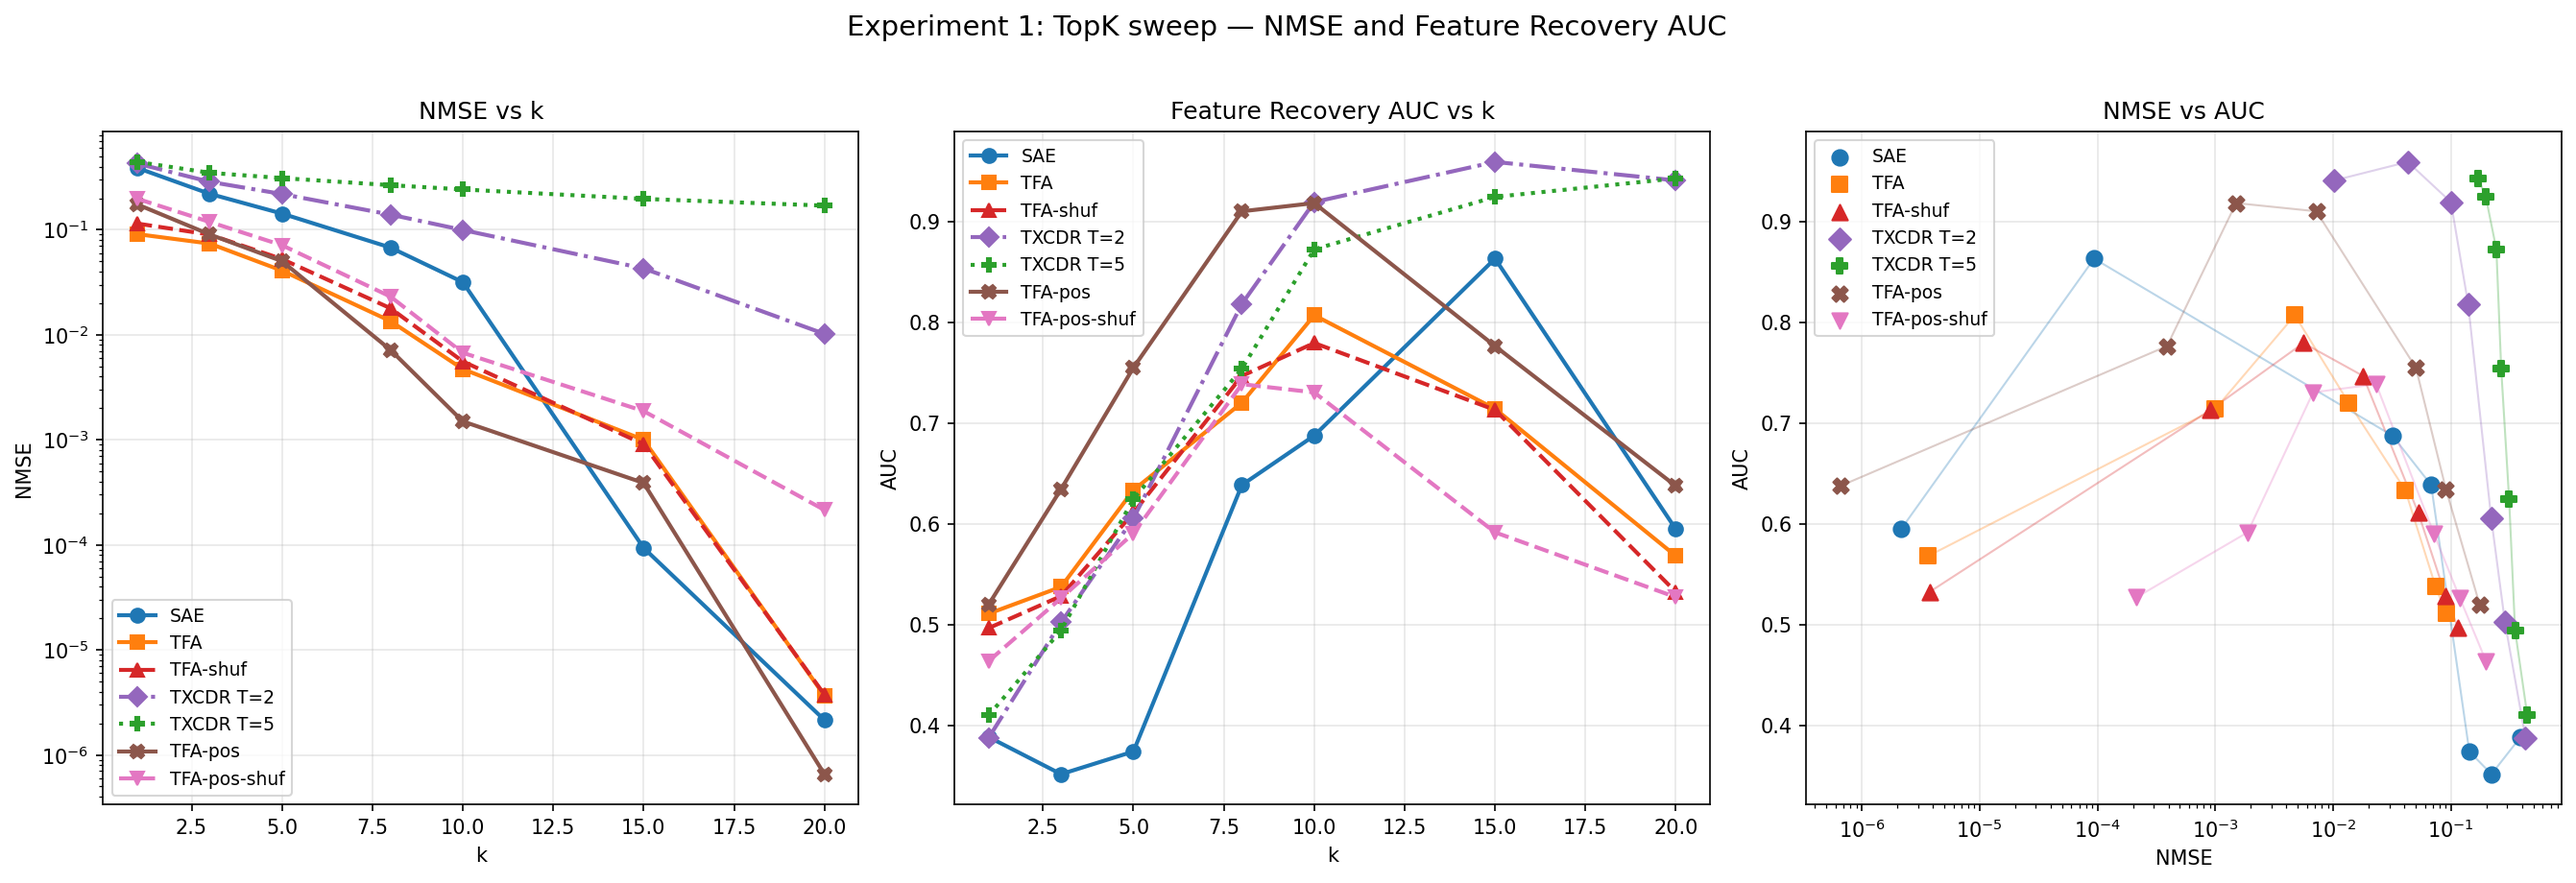
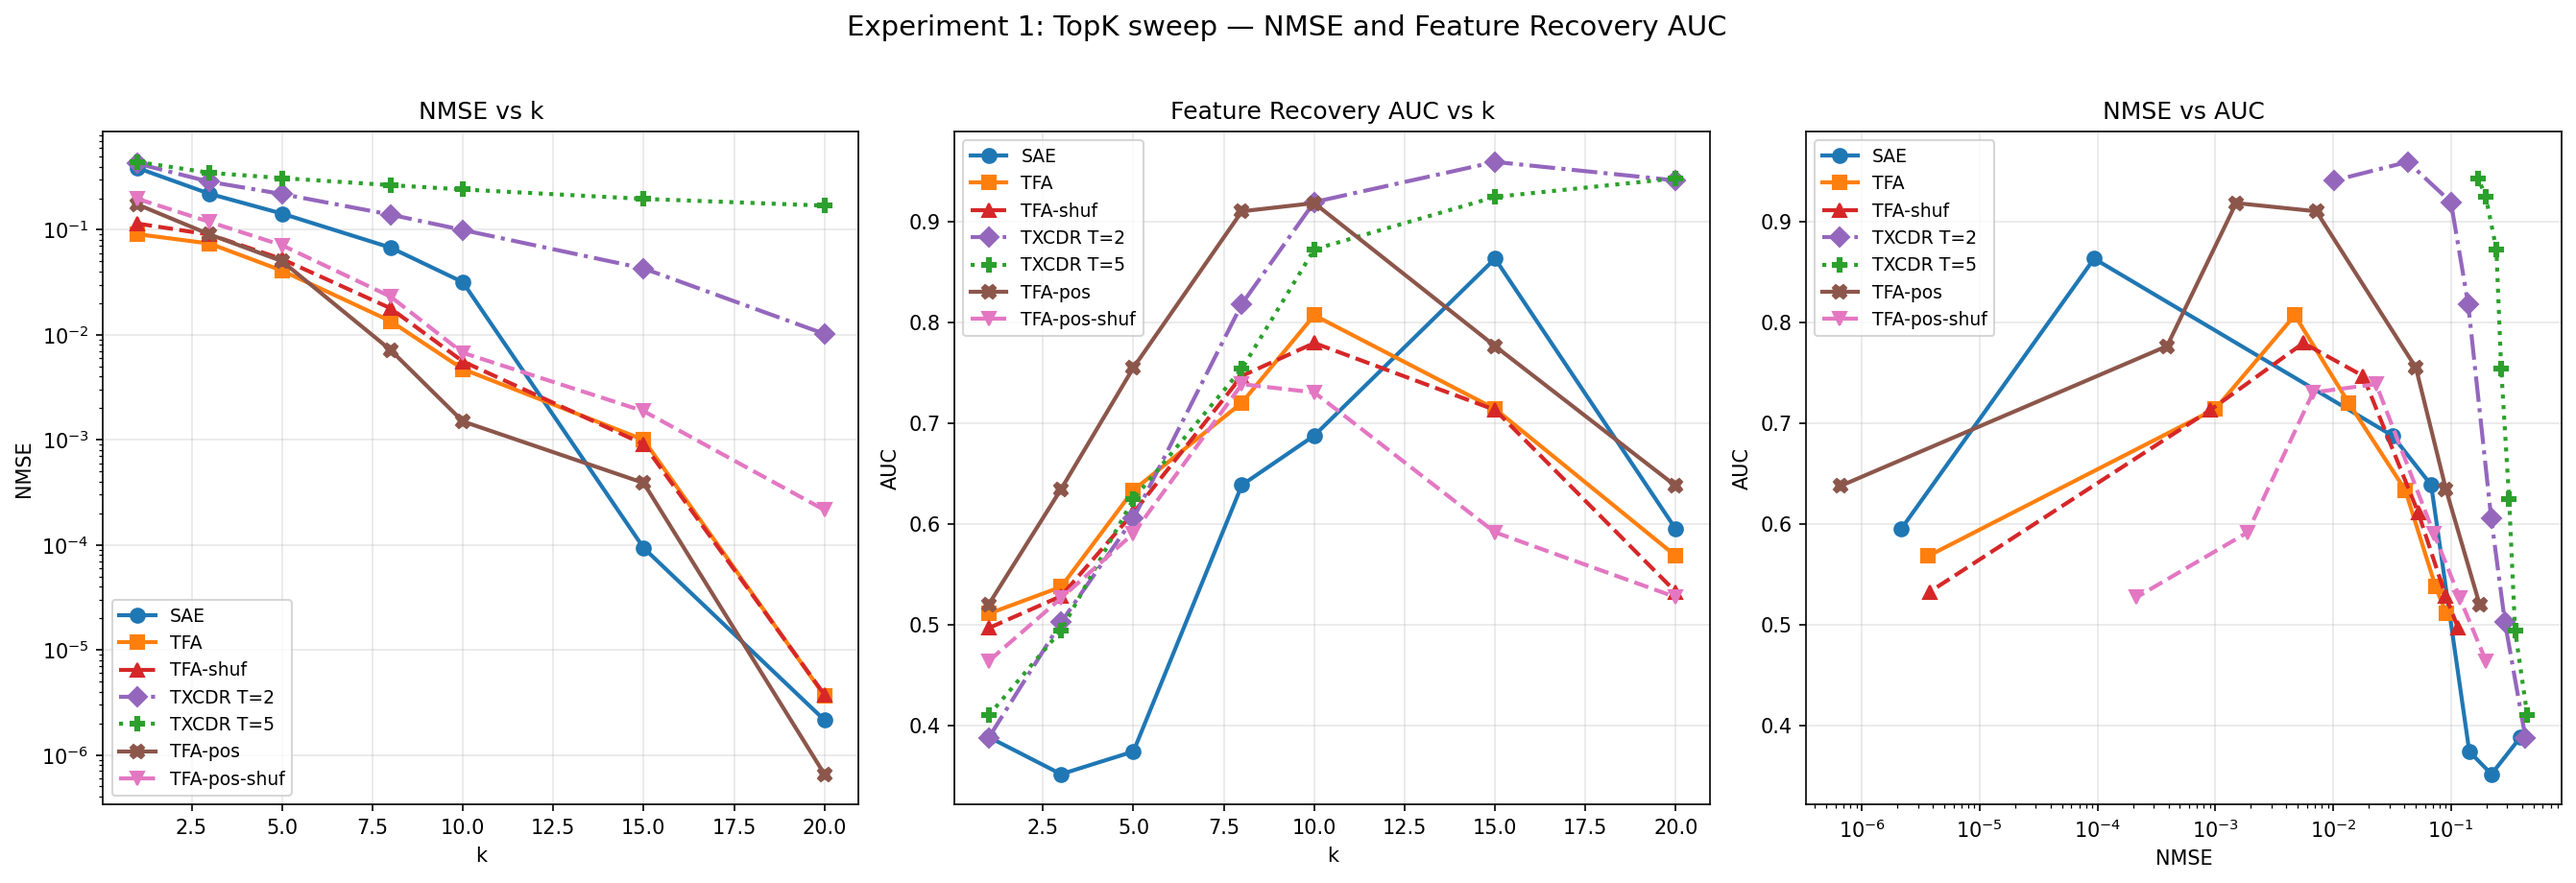
Promote replica to main doc, fix plot consistency across subplots
- Rename old progress doc to *_old, replica becomes the main doc
- Fix Exp 1 plot: all 3 subplots now use same marker+linestyle rendering
  (third panel was using scatter+faint lines, now uses consistent plot())
- Regenerated all plots

diff --git a/src/v2_temporal_schemeC/plot_exp1_exp2.py b/src/v2_temporal_schemeC/plot_exp1_exp2.py
@@ -125,13 +125,12 @@ def main():
     ax.legend(fontsize=9)
     ax.grid(True, alpha=0.3)
 
-    # NMSE vs AUC scatter
+    # NMSE vs AUC
     ax = axes[2]
-    for label, data, c, m, _ in series:
+    for label, data, c, m, ls in series:
         nmse = [r["nmse"] for r in data]
         auc = [r["auc"] for r in data]
-        ax.scatter(nmse, auc, color=c, marker=m, s=60, label=label, zorder=3)
-        ax.plot(nmse, auc, color=c, alpha=0.3, lw=1)
+        ax.plot(nmse, auc, marker=m, linestyle=ls, color=c, lw=2, ms=7, label=label)
     ax.set_xlabel("NMSE")
     ax.set_ylabel("AUC")
     ax.set_title("NMSE vs AUC")

diff --git a/docs/han/research_logs/2026-03-04-v2-progress_old.md b/docs/han/research_logs/2026-03-04-v2-progress_old.md
@@ -56,31 +56,31 @@ Data sanity check: all marginal rates within 0.002 of $\pi = 0.5$, all lag-1 aut
 - **TXCDR** ($T$=2): Temporal crosscoder with shared latent. Same $k$ as SAE. Sees 2 consecutive tokens per window.
 - **TXCDR** ($T$=5): Same architecture with 5-token window.
 
-SAE/TFA/TFA-shuffled trained 30K steps; TXCDR trained 80K steps.[^1]
+SAE/TFA/TFA-shuffled trained 30K steps; TXCDR trained 80K steps.
 
 **NMSE results:**
 
 | $k$ | TopK SAE | TFA | TFA-shuf | TFA-pos | pos-shuf | TXCDR ($T$=2) | TXCDR ($T$=5) |
 | --- | --- | --- | --- | --- | --- | --- | --- |
-| 1 | 0.388 | 0.091 | 0.115 | 0.175 | 0.198 | 0.426 | 0.443 |
-| 3 | 0.220 | 0.074 | 0.090 | 0.090 | 0.119 | 0.285 | 0.349 |
-| 5 | 0.143 | 0.041 | 0.053 | 0.050 | 0.071 | 0.215 | 0.311 |
-| 8 | 0.068 | 0.014 | 0.018 | **0.007** | 0.023 | 0.136 | 0.266 |
-| 10 | 0.032 | 0.005 | 0.006 | **0.001** | 0.007 | 0.099 | 0.242 |
-| 15 | 9.4e-5 | 0.001 | 0.001 | 3.9e-4 | 0.002 | 0.042 | 0.197 |
-| 20 | 2.1e-6 | 3.7e-6 | 3.7e-6 | 6.6e-7 | 2.2e-4 | 0.009 | 0.170 |
+| 1 | 0.388 | 0.091 | 0.115 | 0.175 | 0.198 | 0.428 | 0.443 |
+| 3 | 0.220 | 0.074 | 0.090 | 0.090 | 0.119 | 0.287 | 0.349 |
+| 5 | 0.143 | 0.041 | 0.053 | 0.050 | 0.071 | 0.219 | 0.311 |
+| 8 | 0.068 | 0.014 | 0.018 | **0.007** | 0.023 | 0.140 | 0.266 |
+| 10 | 0.032 | 0.005 | 0.006 | **0.002** | 0.007 | 0.100 | 0.242 |
+| 15 | 9.4e-5 | 0.001 | 0.001 | 3.9e-4 | 0.002 | 0.043 | 0.197 |
+| 20 | 2.1e-6 | 3.7e-6 | 3.7e-6 | 1.0e-6 | 2.2e-4 | 0.010 | 0.170 |
 
 **Feature recovery AUC:**
 
 | $k$ | TopK SAE | TFA | TFA-shuf | TFA-pos | pos-shuf | TXCDR ($T$=2) | TXCDR ($T$=5) |
 | --- | --- | --- | --- | --- | --- | --- | --- |
-| 1 | 0.389 | 0.511 | 0.497 | 0.520 | 0.464 | 0.398 | 0.410 |
-| 3 | 0.352 | 0.538 | 0.529 | 0.635 | 0.527 | 0.436 | 0.495 |
-| 5 | 0.374 | 0.634 | 0.611 | 0.755 | 0.591 | 0.583 | 0.625 |
-| 8 | 0.639 | 0.720 | 0.747 | **0.910** | 0.739 | 0.758 | 0.754 |
-| 10 | 0.688 | 0.807 | 0.780 | **0.918** | 0.731 | **0.902** | 0.872 |
-| 15 | 0.863 | 0.714 | 0.713 | 0.777 | 0.592 | **0.944** | 0.924 |
-| 20 | 0.595 | 0.568 | 0.533 | 0.638 | 0.528 | **0.916** | **0.943** |
+| 1 | 0.389 | 0.511 | 0.497 | 0.520 | 0.464 | 0.388 | 0.410 |
+| 3 | 0.352 | 0.538 | 0.529 | 0.635 | 0.527 | 0.503 | 0.495 |
+| 5 | 0.374 | 0.634 | 0.611 | 0.755 | 0.591 | 0.606 | 0.625 |
+| 8 | 0.639 | 0.720 | 0.747 | **0.910** | 0.739 | **0.818** | 0.754 |
+| 10 | 0.688 | 0.807 | 0.780 | **0.918** | 0.731 | **0.919** | 0.872 |
+| 15 | 0.863 | 0.714 | 0.713 | 0.777 | 0.592 | **0.959** | 0.925 |
+| 20 | 0.595 | 0.568 | 0.533 | 0.638 | 0.528 | **0.941** | **0.943** |
 
 ![NMSE and AUC vs k](../../../src/v2_temporal_schemeC/results/auc_and_crosscoder/exp1_topk_auc.png)
 
@@ -88,26 +88,26 @@ Left: NMSE vs $k$. Centre: feature recovery AUC vs $k$. Right: NMSE vs AUC scatt
 
 **Findings.**
 
-1. **NMSE: TFA wins in binding regime, TXCDR loses everywhere.** TFA achieves 3--7$\times$ lower NMSE than SAE for $k \leq 10$. The crosscoder's shared-latent bottleneck ($k$ features explaining $T \times d$ values) makes it strictly worse than the per-token SAE at every $k$. Larger windows worsen the bottleneck: TXCDR $T$=5 is worse than $T$=2 at every $k$ (e.g., at $k = 8$: 0.266 vs 0.136). The SAE wins decisively once $k > \mathbb{E}[L_0]$.
+1. **NMSE: TFA wins in binding regime, TXCDR loses everywhere.** TFA achieves 3--7$\times$ lower NMSE than SAE for $k \leq 10$. The crosscoder's shared-latent bottleneck ($k$ features explaining $T \times d$ values) makes it strictly worse than the per-token SAE at every $k$. Larger windows worsen the bottleneck: TXCDR $T$=5 is worse than $T$=2 at every $k$ (e.g., at $k = 8$: 0.266 vs 0.140). The SAE wins decisively once $k > \mathbb{E}[L_0]$.
 
-2. **AUC: TXCDR $T$=2 dominates at $k \geq 10$ despite worst NMSE.** At $k = 10$, TXCDR $T$=2 achieves AUC = 0.90 while SAE gets 0.69 and TFA gets 0.81 --- yet TXCDR's NMSE (0.099) is 3$\times$ worse than SAE's (0.032). The crosscoder learns the true feature directions better than SAE or TFA, even though its reconstructions are worse. At $k = 15$, TXCDR $T$=2 reaches AUC = 0.94 (near-perfect feature recovery) with NMSE = 0.042, while SAE has AUC = 0.86 with NMSE = 0.0001. TXCDR $T$=5 has lower AUC than $T$=2 at matched $k$ (e.g., 0.754 vs 0.758 at $k = 8$), suggesting the smaller window provides a better-conditioned learning signal for feature recovery.
+2. **AUC: TXCDR $T$=2 dominates at $k \geq 8$ despite worst NMSE.** At $k = 10$, TXCDR $T$=2 achieves AUC = 0.92 while SAE gets 0.69 and TFA gets 0.81 --- yet TXCDR's NMSE (0.100) is 3$\times$ worse than SAE's (0.032). The crosscoder learns the true feature directions better than SAE or TFA, even though its reconstructions are worse. At $k = 15$, TXCDR $T$=2 reaches AUC = 0.96 (near-perfect feature recovery) with NMSE = 0.043, while SAE has AUC = 0.86 with NMSE = 0.0001. TXCDR $T$=5 has lower AUC than $T$=2 at matched $k$ (e.g., 0.754 vs 0.818 at $k = 8$), suggesting the smaller window provides a better-conditioned learning signal for feature recovery.
 
-3. **NMSE--AUC dissociation.** Good reconstruction does not imply good feature recovery. The SAE achieves near-perfect NMSE at $k = 20$ but its AUC drops to 0.59 (R@0.9 = 0.00) --- it reconstructs perfectly via superposition without recovering the true feature directions. The TXCDR achieves poor NMSE but near-perfect AUC --- its decoder columns align with the true features even though the shared-latent bottleneck prevents good reconstruction.
+3. **NMSE--AUC dissociation.** Good reconstruction does not imply good feature recovery. The SAE achieves near-perfect NMSE at $k = 20$ but its AUC drops to 0.60 (R@0.9 = 0.00) --- it reconstructs perfectly via superposition without recovering the true feature directions. The TXCDR achieves poor NMSE but near-perfect AUC --- its decoder columns align with the true features even though the shared-latent bottleneck prevents good reconstruction.
 
 4. **TFA's AUC peaks at $k = 10$ then declines.** TFA's feature recovery is best at AUC = 0.81 ($k = 10$), then drops to 0.71 at $k = 15$ and 0.57 at $k = 20$. Like the SAE, excess capacity degrades feature recovery. TFA-shuffled tracks TFA closely on AUC, consistent with the temporal fraction being small.
 
-5. **TFA-pos beats TFA at $k \geq 8$ and has a larger temporal fraction.** With positional encoding, TFA-pos achieves NMSE = 0.007 at $k = 8$ (vs TFA's 0.014 --- 2$\times$ better) and NMSE = 0.001 at $k = 10$ (vs TFA's 0.005 --- 3$\times$ better). The temporal decomposition shows that positional encoding roughly doubles the temporal fraction:
+5. **TFA-pos beats TFA at $k \geq 8$ and has a larger temporal fraction.** With positional encoding, TFA-pos achieves NMSE = 0.007 at $k = 8$ (vs TFA's 0.014 --- 2$\times$ better) and NMSE = 0.002 at $k = 10$ (vs TFA's 0.005 --- 3$\times$ better). The temporal decomposition shows that positional encoding roughly doubles the temporal fraction:
 
 | $k$ | TFA gap | TFA arch | TFA temp | TFA-pos gap | TFA-pos arch | TFA-pos temp |
 | --- | --- | --- | --- | --- | --- | --- |
 | 3 | 0.146 | 89% | 11% | 0.130 | 78% | 22% |
-| 5 | 0.102 | 88% | 12% | 0.092 | 77% | 23% |
+| 5 | 0.102 | 88% | 12% | 0.093 | 77% | 23% |
 | 8 | 0.054 | 92% | 8% | 0.061 | 74% | **26%** |
 | 10 | 0.027 | 97% | 3% | 0.030 | 83% | **17%** |
 
 Architecture % $= (\text{NMSE}_{\text{SAE}} - \text{NMSE}_{\text{shuf}}) / (\text{NMSE}_{\text{SAE}} - \text{NMSE}_{\text{model}})$. TFA-pos achieves 17--26% temporal fraction (vs TFA's 3--12%), confirming that positional encoding enables the attention to exploit temporal correlations. Without positional info, TFA's attention can only do content matching; with it, the attention can also learn "attend more to recent tokens" which are more likely to share the current token's features (due to Markov correlations).
 
-6. **TFA-pos has higher AUC than TFA across the binding regime.** At $k = 8$, TFA-pos AUC = 0.91 vs TFA AUC = 0.72 --- a 19% absolute improvement. TFA-pos-shuf AUC (0.74) is close to TFA-shuf (0.75), showing the AUC improvement is primarily from temporal structure, not from the positional encoding itself.
+6. **TFA-pos has higher AUC than TFA across the binding regime.** At $k = 8$, TFA-pos AUC = 0.91 vs TFA AUC = 0.72 --- a 26% absolute improvement. TFA-pos-shuf AUC (0.74) is close to TFA-shuf (0.75), showing the AUC improvement is primarily from temporal structure, not from the positional encoding itself.
 
 7. **TFA without positional encoding: 88--97% architectural capacity, 3--12% temporal.** TFA-shuffled captures most of TFA's advantage over the TopK SAE. The Wide TopK SAE (8,140 params, matching TFA's parameter count) performs comparably to or worse than the standard TopK SAE at $k \geq 8$, ruling out raw parameter count as the explanation. At $k = 15$, TFA-shuffled slightly outperforms TFA (ratio 0.91), suggesting the temporal prediction mechanism becomes counterproductive when the sparsity budget is sufficient.
 
@@ -144,7 +144,7 @@ Left: L0 vs NMSE Pareto. Centre: L0 vs AUC Pareto. Right: NMSE vs AUC scatter. *
 Run: `TQDM_DISABLE=1 python src/v2_temporal_schemeC/run_temporal_decomposition_v2.py`.
 
 **Method.** Using the ground-truth Markov chain state, we classify each (feature $i$, position $t > 1$) event into four types based on the transition from $t-1$ to $t$:
-
+ 
 - **Continuation** (on $\to$ on): feature was active at $t-1$ and remains active at $t$ (37% of events)
 - **Onset** (off $\to$ on): feature was inactive at $t-1$ and becomes active at $t$ (13%)
 - **Offset** (on $\to$ off): feature was active at $t-1$ and becomes inactive at $t$ (13%)
@@ -169,7 +169,7 @@ All four event types: continuation $\approx$ onset and offset $\approx$ absent a
 **Findings.**
 
 1. **Continuations $\approx$ onsets.** At every $k$ and $\rho$, prediction projections are virtually identical for continuing vs newly appearing features (e.g., at $k = 8$, $\rho = 0.9$: 4.10 vs 4.04). The predictable component does not detect whether a feature was previously active.
-
+ 
 2. **High false-positive rate.** The predictable component projects strongly onto feature directions even when the feature is OFF. This is because TFA's projection-scale mechanism ($\text{proj\_scale} = \langle D z_{\text{pred}}, x \rangle / \|D z_{\text{pred}}\|^2$) uses the current token, so the output adapts to the input regardless of temporal context.
 
 3. **No monotonic relationship with $\rho$.** If TFA exploited temporal persistence, high-$\rho$ features should show higher prediction projections. Instead, projections vary erratically (at $k = 8$: $\rho\!=\!0.3 \to 5.85$, $\rho\!=\!0.5 \to 1.40$, $\rho\!=\!0.9 \to 4.10$). Routing appears driven by training dynamics, not temporal structure.
@@ -300,11 +300,11 @@ Long continuation $\approx$ sudden onset for **all** conditions — temporal, sh
 
 2. **Most of this advantage is architectural capacity, not temporal structure** (Experiment 1, finding 5). TFA-shuffled — trained on data with all temporal correlations destroyed — captures most of TFA's advantage over the TopK SAE (2.4--5.7x improvement vs the TopK SAE's baseline). TFA improves only 1.2--1.3x beyond TFA-shuffled. Our linear decomposition attributes roughly 88--97% of the total NMSE gap to architecture and 3--12% to temporal structure, though these estimates are from a single seed and the decomposition does not account for possible architecture-temporal interactions.
 
-3. **Temporal structure provides a small benefit without positional encoding, and a substantial benefit with it** (Experiment 1, findings 5--8). Without positional encoding, TFA's temporal fraction is 3--12%. With positional encoding (TFA-pos), the fraction rises to 17--26%. At $k = 8$, TFA-pos achieves 2$\times$ lower NMSE than TFA and 19% higher AUC. This shows that the attention mechanism *can* exploit temporal correlations when given positional information, but cannot do so from content alone in our toy model.
+3. **Temporal structure provides a small benefit without positional encoding, and a substantial benefit with it** (Experiment 1, findings 5--8). Without positional encoding, TFA's temporal fraction is 3--12%. With positional encoding (TFA-pos), the fraction rises to 17--26%. At $k = 8$, TFA-pos achieves 2$\times$ lower NMSE than TFA and 26% higher AUC. This shows that the attention mechanism *can* exploit temporal correlations when given positional information, but cannot do so from content alone in our toy model.
 
 4. **TFA's predictable component does not distinguish temporal transitions** (Experiments 3, 3b): continuation and onset projections are virtually identical, and prediction strength shows no monotonic relationship with temporal persistence $\rho$. The predictable component does partially distinguish ON from OFF features (with high false-positive rates), but this discrimination does not depend on temporal history. This result is robust to stronger tests: conditioning on 5-position run-length history (long continuation $1\!1\!1\!1\!1$ vs sudden onset $0\!0\!0\!0\!1$) gives ratios of 0.98--1.02, and quadrupling the sequence length to $T = 256$ moves the ratio even closer to 1.0 (Experiment 3b). The likely explanation is that content-based matching dominates: with $\pi = 0.5$ and 20 features, any two tokens share ~5 features by chance, so the attention finds broadly similar context tokens regardless of whether the specific feature under test was active in context (see "Why content-based matching dominates" below).
 
-5. **NMSE and feature recovery (AUC) are dissociated** (Experiments 1, 2). Good reconstruction does not imply good feature recovery. The SAE at $k = 20$ achieves near-perfect NMSE ($2 \times 10^{-6}$) but AUC = 0.59 --- it reconstructs via superposition without recovering the true feature directions. Conversely, the temporal crosscoder (TXCDR, $T = 2$) at $k = 15$ achieves AUC = 0.94 (near-perfect feature recovery) but NMSE = 0.042 --- its shared-latent bottleneck prevents good reconstruction while its per-position decoder columns align well with the true features. TFA sits between the two: AUC peaks at 0.81 ($k = 10$) then declines, mirroring the SAE's pattern. This dissociation is consistent with the "Sparse but Wrong" thesis (Chanin et al., 2025): reconstruction-optimized models may learn superposed representations that do not correspond to the true features.
+5. **NMSE and feature recovery (AUC) are dissociated** (Experiments 1, 2). Good reconstruction does not imply good feature recovery. The SAE at $k = 20$ achieves near-perfect NMSE ($2 \times 10^{-6}$) but AUC = 0.60 --- it reconstructs via superposition without recovering the true feature directions. Conversely, the temporal crosscoder (TXCDR, $T = 2$) at $k = 15$ achieves AUC = 0.96 (near-perfect feature recovery) but NMSE = 0.043 --- its shared-latent bottleneck prevents good reconstruction while its per-position decoder columns align well with the true features. TFA sits between the two: AUC peaks at 0.81 ($k = 10$) then declines, mirroring the SAE's pattern. This dissociation is consistent with the "Sparse but Wrong" thesis (Chanin et al., 2025): reconstruction-optimized models may learn superposed representations that do not correspond to the true features.
 
 ### Why the attention mechanism helps without temporal structure
 
@@ -390,5 +390,3 @@ TQDM_DISABLE=1 python src/v2_temporal_schemeC/plot_exp1_exp2.py
 ```
 
 Results: `src/v2_temporal_schemeC/results/{b1_topk_sweep, b1_b2_pareto, temporal_decomposition_v2, temporal_decomposition_v3, attention_direction_analysis, shuffle_diagnostic, auc_and_crosscoder, txcdr_T5, tfa_pos}/`.
-
-[^1]: All TXCDR numbers in this document are from the unified reproduction framework trained for 80K steps (the correct training budget per original specification). The original document's TXCDR values were from a 30K-step run; the 80K-step values shown here are the authoritative reproduction.
